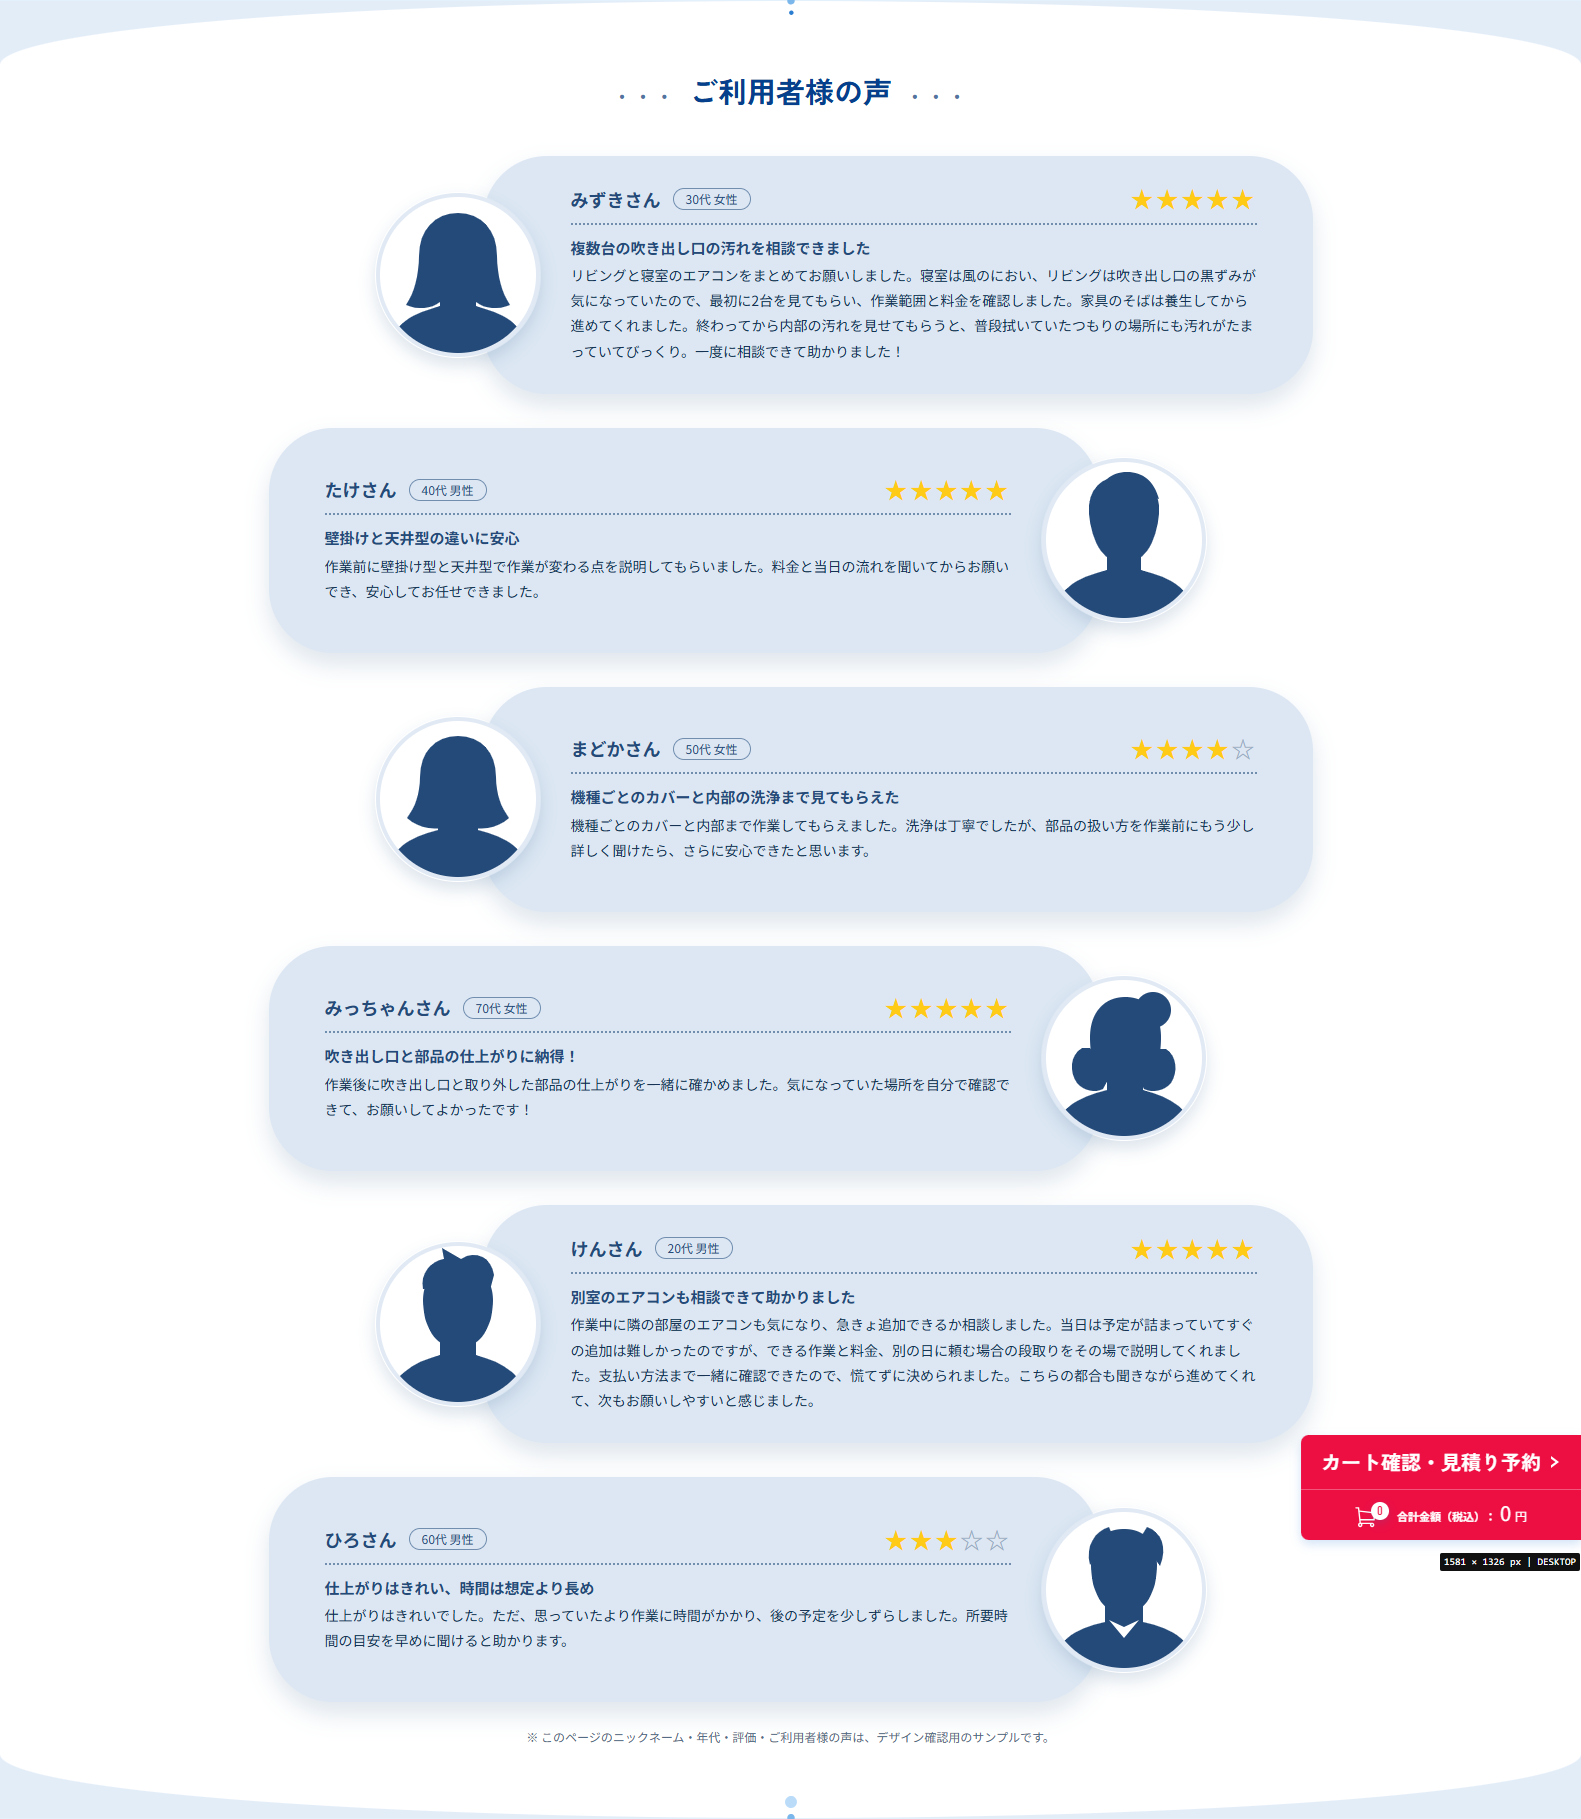
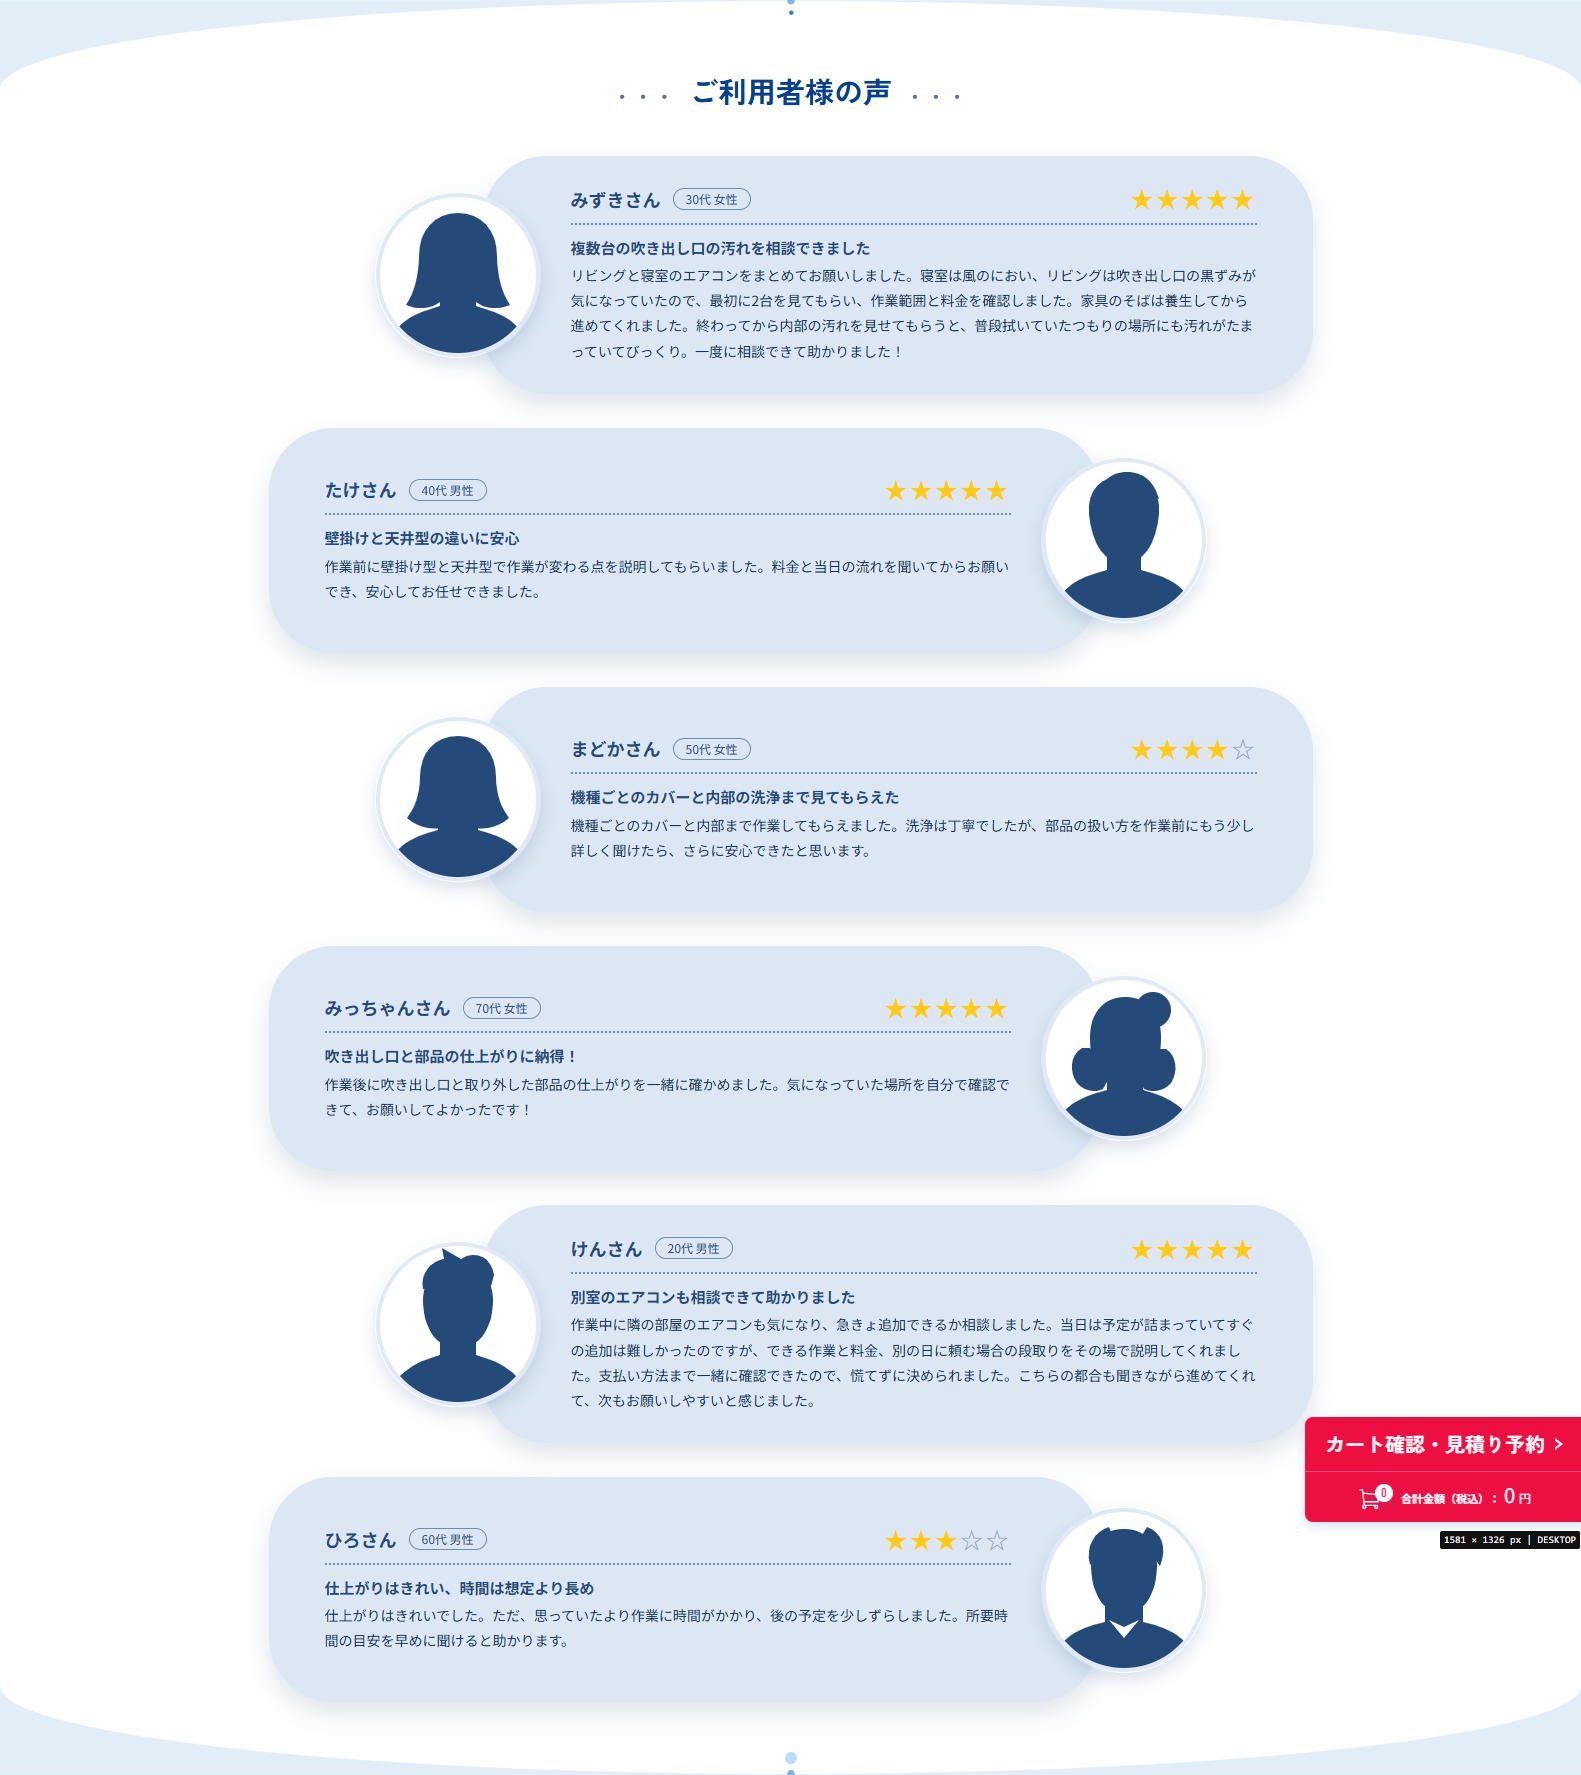
Round aircon voice section curves and remove note

diff --git a/source/site/house-cleaning/aircon/index.html b/source/site/house-cleaning/aircon/index.html
@@ -42,7 +42,7 @@
 <script type="module" src="/assets/js/shared-translation-control.js"></script>
 <link rel="stylesheet" href="/assets/css/service-pages.css?v=2026100210"/>
 <link rel="stylesheet" href="/assets/css/reasons-navy.css?v=2026100211">
-<link rel="stylesheet" href="/assets/css/aircon-voice-bubbles.css?v=2026100212">
+<link rel="stylesheet" href="/assets/css/aircon-voice-bubbles.css?v=2026100213">
 </head>
   <body>
       <header class="c-header">
@@ -2173,7 +2173,7 @@
 <p class="c-voice-card__text">仕上がりはきれいでした。ただ、思っていたより作業に時間がかかり、後の予定を少しずらしました。所要時間の目安を早めに聞けると助かります。</p>
 </div>
 </div>
-<p class="c-voice-bubbles__note">※ このページのニックネーム・年代・評価・ご利用者様の声は、デザイン確認用のサンプルです。</p></div>
+</div>
 </div>
 </div>
 </section><section class="l-section l-section--limited l-section--blue-bubbles" id="service-faq" style="--bg-color: #e3f1fc;">

diff --git a/source/site/assets/css/aircon-voice-bubbles.css b/source/site/assets/css/aircon-voice-bubbles.css
@@ -9,7 +9,7 @@
   position: absolute;
   inset: 0;
   z-index: 0;
-  border-radius: 50% / 64px;
+  border-radius: 50% / 88px;
   background: #fff;
   pointer-events: none;
 }
@@ -167,16 +167,9 @@
 .c-service-page .c-voice-card__stars-filled { color: #ffcb16; }
 .c-service-page .c-voice-card__stars-empty { color: #93a9c2; }
 
-.c-service-page .c-voice-bubbles__note {
-  margin-top: 26px;
-  color: #546b85;
-  font-size: .75rem;
-  text-align: center;
-}
-
 @media screen and (max-width: 767.98px) {
   .c-service-page .c-voice-section--bubble-preview::after {
-    border-radius: 50% / 28px;
+    border-radius: 50% / 40px;
   }
 
   .c-service-page .c-voice-bubbles.c-grid {

diff --git a/tools/verify_service_pages.py b/tools/verify_service_pages.py
@@ -74,7 +74,7 @@ for route,page in catalogue['pages'].items():
                 if value in seen: fail(route,f'duplicate voice {kind} with {seen[value]}')
                 seen[value] = route
     preview = voice_section and 'c-voice-section--bubble-preview' in voice_section.get('class', [])
-    preview_css = doc.select_one('link[href="/assets/css/aircon-voice-bubbles.css?v=2026100212"]')
+    preview_css = doc.select_one('link[href="/assets/css/aircon-voice-bubbles.css?v=2026100213"]')
     if route == 'aircon':
         if not preview or not preview_css or not voice_section.select_one('.c-voice-bubbles'):
             fail(route,'aircon-only voice bubble preview missing')
@@ -83,8 +83,8 @@ for route,page in catalogue['pages'].items():
             ratings = [node.get('aria-label') for node in voice_section.select('.c-voice-card__stars')]
             if len(profiles) != 6 or ratings != [f'5つ星中{value}つ星' for value in (5, 5, 4, 5, 5, 3)]:
                 fail(route,'sample profile and rating layout')
-            if not voice_section.select_one('.c-voice-bubbles__note'):
-                fail(route,'sample disclosure missing')
+            if voice_section.select_one('.c-voice-bubbles__note'):
+                fail(route,'obsolete voice note remains')
     elif preview or preview_css:
         fail(route,'aircon voice bubble preview leaked to another page')
     concerns = main.select('.c-issue-card__text')

diff --git a/tools/build_service_pages.py b/tools/build_service_pages.py
@@ -421,10 +421,6 @@ def voices(page, copy):
             profile.append(identity)
             profile.append(stars)
             card.insert(0, profile)
-        n.select_one('.p-content-box__content').append(tag(
-            'p', 'c-voice-bubbles__note',
-            '※ このページのニックネーム・年代・評価・ご利用者様の声は、デザイン確認用のサンプルです。'
-        ))
     return n
 
 
@@ -516,7 +512,7 @@ def render(route, page, catalogue, copy):
     output = re.sub(r'/assets/css/service-pages\.css\?v=\d+',
                     f'/assets/css/service-pages.css?v={css_version}', output)
     output = ensure_navy_stylesheet(output)
-    bubble_css = '<link rel="stylesheet" href="/assets/css/aircon-voice-bubbles.css?v=2026100212">'
+    bubble_css = '<link rel="stylesheet" href="/assets/css/aircon-voice-bubbles.css?v=2026100213">'
     bubble_pattern = r'<link rel="stylesheet" href="/assets/css/aircon-voice-bubbles\.css\?v=\d+"\s*/?>'
     if route == 'aircon':
         if re.search(bubble_pattern, output):

diff --git a/Crystal-Clean-Home_仕様書.md b/Crystal-Clean-Home_仕様書.md
@@ -15,7 +15,8 @@
 - ページ内目次は該当セクションへスクロールする。お悩みは各項目2行で、2行目を「...」で終える。続く2行の清掃訴求見出しは2行目の末尾を「！」とする。
 - 商品、CTA、オプション一覧は既存のパックページで用いる共通HTML・CSS部品と数値を再利用する。商品ID、価格、選択肢、数量、カート操作は `catalogue.json` に合わせる。オプション詳細は改段落せず、PCでは3行分の高さに揃え、狭い幅では文字を切らない。
 - ご利用者様の声は各ページ6件。商品に合う具体的な見出しと本文を持ち、ページ間で同じ文を繰り返さない。見出しは左上の屋号ロゴと重ならない長さ・配置とし、説明文と右下の引用装飾は置かない。
-- [エアコン限定の試作 / CHG-2026-10-02-059] `/house-cleaning/aircon/` では上記の共通カード配置に代え、6件を縦一列で左右交互にずらす。淡青色の大きな角丸パネルに若年・中年・高齢、男女の紺色シルエット6種を重ねる。パネル上段に架空のニックネーム・年代・性別・星評価を置き、5・5・4・5・5・3の評価に対応する本文を表示する。1件目と5件目は利用場面を具体的に書いたやや長めの本文とし、残りと文量に変化を付ける。見出し本文は「ご利用者様の声」を維持し、左右に「・・・」を装飾表示する。セクション自体は白い面を淡青色の下地に重ね、上端を中央が上がる曲線、下端を中央が下がる曲線にする。架空の評価であることをページ上で明示する。専用CSSは `source/site/assets/css/aircon-voice-bubbles.css`、シルエットは `source/site/assets/images/voices/` の6つのSVG。ほかの45サービスページには適用しない。
+- [旧試作 / CHG-2026-10-02-059・後続のCHG-060で曲線と注記を更新] `/house-cleaning/aircon/` では上記の共通カード配置に代え、6件を縦一列で左右交互にずらす。淡青色の大きな角丸パネルに若年・中年・高齢、男女の紺色シルエット6種を重ねる。パネル上段に架空のニックネーム・年代・性別・星評価を置き、5・5・4・5・5・3の評価に対応する本文を表示する。1件目と5件目は利用場面を具体的に書いたやや長めの本文とし、残りと文量に変化を付ける。見出し本文は「ご利用者様の声」を維持し、左右に「・・・」を装飾表示する。セクション自体は白い面を淡青色の下地に重ね、上端を中央が上がる曲線、下端を中央が下がる曲線にする。この時点では架空の評価であることを画面内に明示した。専用CSSは `source/site/assets/css/aircon-voice-bubbles.css`、シルエットは `source/site/assets/images/voices/` の6つのSVG。ほかの45サービスページには適用しない。
+- [エアコン限定の現行試作 / CHG-2026-10-02-060] 白い面の `border-radius` をPCでは `50% / 88px`、767.98px以下では `50% / 40px` とし、上下の曲線を少し深くする。声セクション末尾のサンプル注記は生成せず、専用CSSの注記用ルールも削除する。試作用の文章・評価であることは要件定義書と変更履歴で管理する。
 - FAQの疑問形の見出しは「？」で終える。依頼形の見出しには不要な疑問符や句点を付けない。決済方法の案内は現金・電子マネー・Visa・Mastercard。
 
 ## 共通背景：「選ばれる理由」

diff --git a/Crystal-Clean-Home_要件定義書.md b/Crystal-Clean-Home_要件定義書.md
@@ -71,4 +71,5 @@
 - [旧試作 2026-10-02 / CHG-2026-10-02-056・後続のCHG-057で更新] エアコンページの3枚のガラス面を指定の navy `#000080` に修正した。CSSだけで作った背面の光の濃淡は後続の指定画像へ置き換えた。
 - [旧試作 2026-10-02 / CHG-2026-10-02-057・後続のCHG-058で全ページへ拡大] エアコンページだけに、提供された縦長の紺色光沢画像を横向きにした3枚のガラス面を適用した。
 - [変更 2026-10-02 / CHG-2026-10-02-058] 「選ばれる理由」の3枚の独立した背景を、同じセクションを持つ全50ページに適用する。対象は46サービスページとトップ、会社案内、オプション、商品303の4ページ。最終指定に従い、背景は navy `#000080` の無地とし、画像・筋模様・光沢・反射・ぼかしは使用しない。手前の白いカードと各ページの文章を保持する。商品、料金、CTA、他セクションの文章は変更しない。
-- [試作 2026-10-02 / CHG-2026-10-02-059] `/house-cleaning/aircon/` の「ご利用者様の声」だけで、提示画像を参考にした縦一列・左右交互の6件の吹き出し配置を試す。各件は年代・性別を混ぜた丸い人型シルエットと横長の淡い青色パネルを組み合わせ、ニックネーム・年代・性別・5段階の星評価を上段に置く。基本は5つ星、4・3つ星の項目は内容にも気になった点を含める。6件の本文を同じ分量にせず、上部1件と下部1件はやや長めにして利用場面を具体的に描く。見出しは「・・・ ご利用者様の声 ・・・」の形式で表示する。白いセクション全体の上下は中央が外へ広がる緩い放物線状の輪郭にする。これらは実際の投稿ではないデザイン確認用の架空サンプルとして明示する。全ページへの展開はこの試作の確認後に判断する。
+- [旧試作 2026-10-02 / CHG-2026-10-02-059・後続のCHG-060で曲線と注記を更新] `/house-cleaning/aircon/` の「ご利用者様の声」だけで、提示画像を参考にした縦一列・左右交互の6件の吹き出し配置を試す。各件は年代・性別を混ぜた丸い人型シルエットと横長の淡い青色パネルを組み合わせ、ニックネーム・年代・性別・5段階の星評価を上段に置く。基本は5つ星、4・3つ星の項目は内容にも気になった点を含める。6件の本文を同じ分量にせず、上部1件と下部1件はやや長めにして利用場面を具体的に描く。見出しは「・・・ ご利用者様の声 ・・・」の形式で表示する。白いセクション全体の上下は中央が外へ広がる緩い放物線状の輪郭にする。この時点ではデザイン確認用の架空サンプルである旨を画面内に注記した。全ページへの展開はこの試作の確認後に判断する。
+- [変更 2026-10-02 / CHG-2026-10-02-060] エアコンページの声セクションは上下の白い曲線を現状より丸くし、画面下部の「デザイン確認用のサンプルです」という注記を削除する。6件の文章、見出し、評価、シルエットと他ページの表示は維持する。投稿内容が試作用の仮文である事実は管理文書に残す。

diff --git a/変更履歴.md b/変更履歴.md
@@ -1,5 +1,13 @@
 # 変更履歴
 
+## CHG-2026-10-02-060 エアコンの声セクションの曲線と注記を調整
+
+- 決定日：2026-10-02。
+- 人間からの要求：ご利用者様の声セクションの上下の放物線をもう少し丸くし、末尾の「デザイン確認用のサンプルです」という注記を外す。
+- 決定内容：エアコン限定の白いセクション背景の曲線をPCは `50% / 64px` から `50% / 88px`、スマートフォンは `50% / 28px` から `50% / 40px` にする。HTML生成から注記を除き、不要になったCSSを削除する。試作用の仮文であることは管理文書に記録し、ほかの45ページの声セクションは変更しない。
+- 影響範囲：`/house-cleaning/aircon/`、専用CSS、ページ生成・検査ツール。
+- ローカル確認：1581px・390pxの画面を撮影し、上下の曲線が前版より深く、末尾の注記が消え、見出しと6件の声が読めることを目視確認。46サービスページの構造検査、50ページ・116画面幅のブラウザー検査、1398ファイルの整合性検査が通過。
+
 ## CHG-2026-10-02-059 エアコンのご利用者様の声を吹き出し型で試作
 
 - 決定日：2026-10-02。
